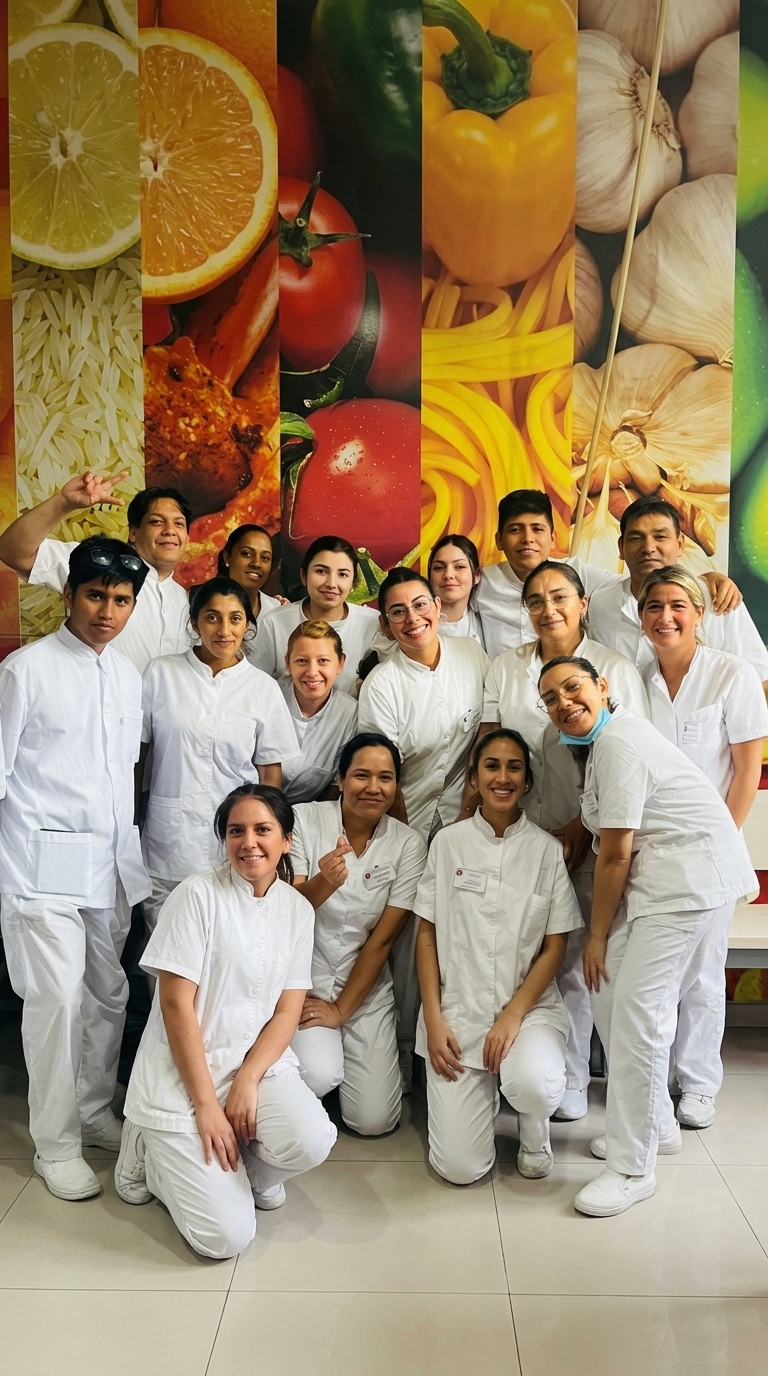
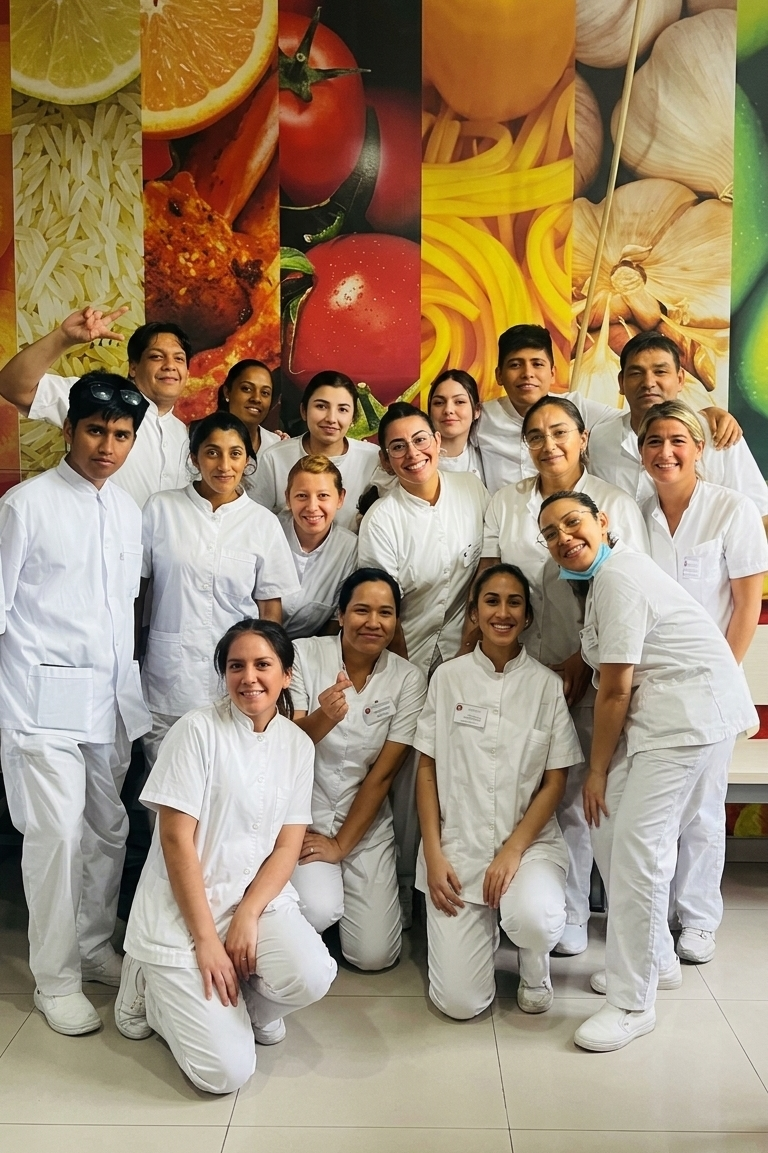
update

diff --git a/css/index.css b/css/index.css
@@ -88,12 +88,17 @@
 
   #presentacion {
     height: calc(100vh - 50px - 50px) !important;
+    background-image: url("../assets/images/presentacion/presentacion-mobile.jpeg") !important;
+
+    background-repeat: no-repeat;
+    background-position: center center;
+    background-size: cover; /* Opcional: hace que la imagen cubra todo el contenedor */
   }
 
   .presentacion-img-gif {
     position: absolute;
     height: calc(100vh - 50px - 50px) !important;
-    background-image: url("../assets/images/presentacion/presentacion-mobile.jpeg") !important;
+
   }
 
   #titulo-presentacion{    
@@ -425,10 +430,11 @@ body {
 #presentacion {
   height: calc(100vh - 50px);
 
+
+
   background-image: url("../assets/images/presentacion/presentacion.jpeg");
   background-size: cover;
 }
-
 
 #titulo-presentacion {
   height: calc(100vh - 50px);
